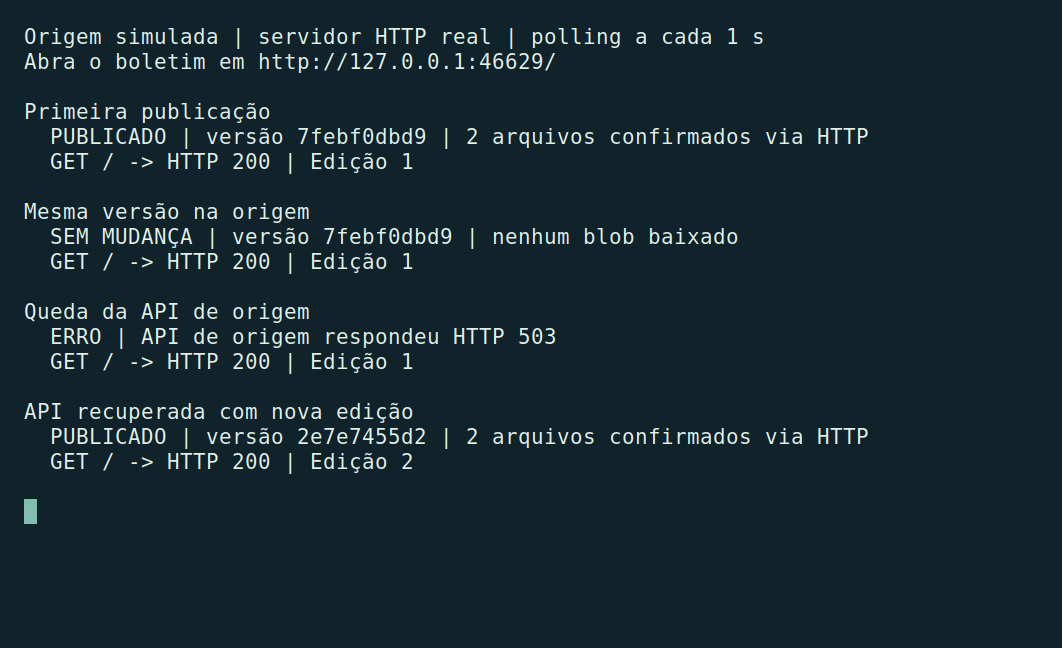
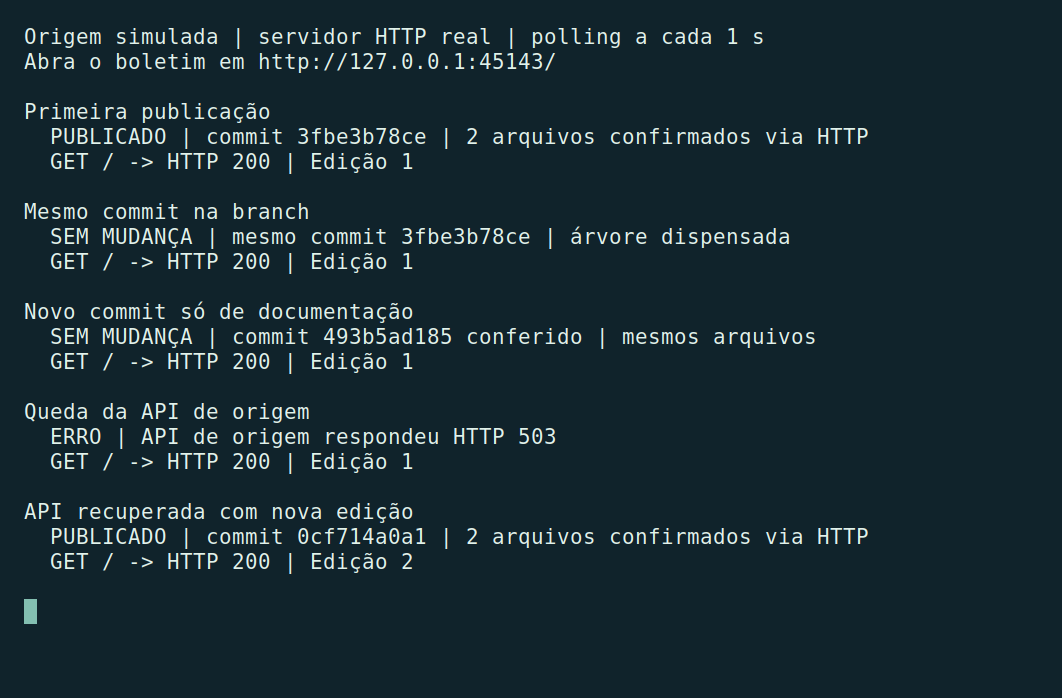
Consulta o commit da branch antes de carregar a árvore do site

diff --git a/demo.py b/demo.py
@@ -4,6 +4,7 @@ import argparse
 from contextlib import ExitStack, contextmanager
 from functools import partial
 from http.server import BaseHTTPRequestHandler, SimpleHTTPRequestHandler, ThreadingHTTPServer
+import hashlib
 import json
 from pathlib import Path
 import secrets
@@ -19,6 +20,8 @@ class Boletim:
     def __init__(self):
         self.token = secrets.token_urlsafe()
         self.indisponivel = False
+        self.arvores = {}
+        self.blobs = {}
         self.trocar_edicao(1)
 
     def trocar_edicao(self, numero):
@@ -31,6 +34,18 @@ class Boletim:
             "site/notas.md": b"Rascunho",
             "outra-pasta/index.html": b"Arquivo fora do site",
         }
+        self.comitar()
+
+    def comitar(self):
+        itens = []
+        for nome, dados in sorted(self.arquivos.items()):
+            sha = sha_blob(dados)
+            self.blobs[sha] = dados
+            itens.append(dict(path=nome, type="blob", mode="100644", sha=sha, size=len(dados)))
+        corpo = json.dumps({"tree": itens, "truncated": False}).encode()
+        self.arvore = hashlib.sha1(corpo).hexdigest()
+        self.arvores[self.arvore] = corpo
+        self.commit = hashlib.sha1(("commit " + self.arvore).encode()).hexdigest()
 
     def responder(self, req):
         if req.headers.get("Authorization") != f"Bearer {self.token}":
@@ -39,16 +54,19 @@ class Boletim:
         if self.indisponivel:
             req.send_error(503)
             return
-        base = "/repos/exemplo/boletim/git"
-        if req.path == base + "/trees/main?recursive=1":
-            itens = [dict(path=nome, type="blob", mode="100644", sha=sha_blob(dados),
-                          size=len(dados)) for nome, dados in self.arquivos.items()]
-            req.enviar(json.dumps({"tree": itens, "truncated": False}).encode(), "application/json")
+        base = "/repos/exemplo/boletim"
+        if req.path == base + "/branches/main":
+            revisao = {"commit": {"sha": self.commit, "commit": {"tree": {"sha": self.arvore}}}}
+            req.enviar(json.dumps(revisao).encode(), "application/json")
             return
-        for dados in self.arquivos.values():
-            if req.path == base + "/blobs/" + sha_blob(dados):
-                req.enviar(dados, "application/octet-stream")
-                return
+        arvore = req.path.removeprefix(base + "/git/trees/").removesuffix("?recursive=1")
+        if arvore in self.arvores:
+            req.enviar(self.arvores[arvore], "application/json")
+            return
+        sha = req.path.removeprefix(base + "/git/blobs/")
+        if sha in self.blobs:
+            req.enviar(self.blobs[sha], "application/octet-stream")
+            return
         req.send_error(404)
 
 
@@ -97,12 +115,16 @@ def demonstrar(intervalo, manter):
         agenda = ciclos(origem, base, site, intervalo)
         etapas = [
             ("Primeira publicação", "PUBLICADO", 1),
-            ("Mesma versão na origem", "SEM MUDANÇA", 1),
+            ("Mesmo commit na branch", "SEM MUDANÇA", 1),
+            ("Novo commit só de documentação", "SEM MUDANÇA", 1),
             ("Queda da API de origem", "ERRO", 1),
             ("API recuperada com nova edição", "PUBLICADO", 2),
         ]
         for titulo, estado, edicao in etapas:
             boletim.indisponivel = estado == "ERRO"
+            if titulo == "Novo commit só de documentação":
+                boletim.arquivos["README.md"] = b"Nova nota de uso"
+                boletim.comitar()
             if edicao == 2:
                 boletim.trocar_edicao(2)
             sucesso, mensagem = next(agenda)
@@ -123,7 +145,7 @@ def demonstrar(intervalo, manter):
 if __name__ == "__main__":
     parser = argparse.ArgumentParser(description=__doc__)
     parser.add_argument("--intervalo", type=int, default=2, metavar="SEGUNDOS")
-    parser.add_argument("--manter", action="store_true", help="mantém o site aberto após os quatro ciclos")
+    parser.add_argument("--manter", action="store_true", help="mantém o site aberto após os cinco ciclos")
     args = parser.parse_args()
     if args.intervalo < 1:
         parser.error("o intervalo deve ser positivo")

diff --git a/publicador.py b/publicador.py
@@ -12,7 +12,7 @@ import sys
 import time
 from urllib.parse import quote, urlsplit
 
-from origem import Falha, GitHub, baixar, sha_blob
+from origem import EXTENSOES, Falha, GitHub, baixar, sha_blob
 
 
 def ler_link(link):
@@ -53,20 +53,8 @@ def limpar_versoes(base):
             shutil.rmtree(pasta)
 
 
-def publicar(origem, base, url_site):
+def ativar(origem, arquivos, base, url_site, destino, anterior):
     atual, confirmado = base / "current", base / "confirmado"
-    anterior = ler_link(confirmado)
-    # Uma interrupção entre a troca e a confirmação é revertida no ciclo seguinte.
-    if ler_link(atual) != anterior:
-        apontar(atual, anterior)
-
-    arquivos = origem.listar()
-    manifesto = json.dumps([(a.caminho, a.sha) for a in arquivos]).encode()
-    versao = hashlib.sha256(manifesto).hexdigest()
-    destino = Path("versoes") / versao
-    if anterior == destino:
-        return f"SEM MUDANÇA | versão {versao[:10]} | nenhum blob baixado"
-
     if not (base / destino).exists():
         preparar(origem, arquivos, base / destino)
     apontar(atual, destino)
@@ -80,7 +68,39 @@ def publicar(origem, base, url_site):
     except (Falha, OSError):
         apontar(atual, anterior)
         raise
-    return f"PUBLICADO | versão {versao[:10]} | {len(arquivos)} arquivos confirmados via HTTP"
+
+
+def publicar(origem, base, url_site):
+    atual, confirmado = base / "current", base / "confirmado"
+    anterior = ler_link(confirmado)
+    # Uma interrupção entre a troca e a confirmação é revertida no ciclo seguinte.
+    if ler_link(atual) != anterior:
+        apontar(atual, anterior)
+
+    commit, arvore = origem.revisao()
+    registro = base / "ultimo-commit.json"
+    estado = {"origem": origem.base, "branch": origem.branch, "pasta": origem.pasta,
+              "extensoes": sorted(EXTENSOES), "commit": commit, "versao": str(anterior)}
+    if (anterior and (atual / "index.html").is_file() and registro.is_file()
+            and registro.read_bytes() == json.dumps(estado).encode()):
+        return f"SEM MUDANÇA | mesmo commit {commit[:10]} | árvore dispensada"
+
+    arquivos = origem.listar(arvore)
+    manifesto = json.dumps([(a.caminho, a.sha) for a in arquivos]).encode()
+    versao = hashlib.sha256(manifesto).hexdigest()
+    destino = Path("versoes") / versao
+    if anterior == destino and (atual / "index.html").is_file():
+        mensagem = f"SEM MUDANÇA | commit {commit[:10]} conferido | mesmos arquivos"
+    else:
+        ativar(origem, arquivos, base, url_site, destino, anterior)
+        mensagem = f"PUBLICADO | commit {commit[:10]} | {len(arquivos)} arquivos confirmados via HTTP"
+
+    # Uma falha anterior a este ponto deixa o mesmo commit elegível para nova tentativa.
+    estado["versao"] = str(destino)
+    temporario = registro.with_suffix(".novo")
+    temporario.write_text(json.dumps(estado), encoding="ascii")
+    os.replace(temporario, registro)
+    return mensagem
 
 
 def ciclo(origem, base, url_site):

diff --git a/tests/test_publicador.py b/tests/test_publicador.py
@@ -4,6 +4,7 @@ from functools import partial
 from pathlib import Path
 from tempfile import TemporaryDirectory
 import unittest
+from unittest.mock import patch
 from urllib.request import urlopen
 
 from demo import ApiLocal, Boletim, SiteLocal, servidor
@@ -39,6 +40,40 @@ class TestePublicacao(unittest.TestCase):
 
     def rodar(self, url=None):
         return ciclo(self.origem, self.base, url or self.site)
+
+    def test_commit_repetido_e_commit_so_de_documentacao(self):
+        with patch.object(self.origem, "listar", wraps=self.origem.listar) as listar, \
+             patch.object(self.origem, "conteudo", wraps=self.origem.conteudo) as baixar:
+            self.assertTrue(self.rodar()[0])
+            ativa = (self.base / "current").readlink()
+            self.assertIn("mesmo commit", self.rodar()[1])
+            self.assertEqual((listar.call_count, baixar.call_count), (1, 2))
+            self.boletim.arquivos["README.md"] = b"Documentacao"
+            self.boletim.comitar()
+            self.assertIn("mesmos arquivos", self.rodar()[1])
+            self.assertIn("mesmo commit", self.rodar()[1])
+            self.assertEqual((listar.call_count, baixar.call_count), (2, 2))
+            self.assertEqual((self.base / "current").readlink(), ativa)
+
+    def test_migracao_e_mudanca_de_pasta_no_mesmo_commit(self):
+        self.assertTrue(self.rodar()[0])
+        (self.base / "ultimo-commit.json").unlink()  # estado de uma instalação anterior
+        self.assertIn("mesmos arquivos", self.rodar()[1])
+        self.origem.pasta = "outra-pasta"
+        self.assertIn("PUBLICADO", self.rodar()[1])
+        self.assertEqual((self.base / "current/index.html").read_bytes(), b"Arquivo fora do site")
+
+    def test_branch_avanca_durante_o_download(self):
+        listar = self.origem.listar
+        def avancar_branch(arvore):
+            self.boletim.trocar_edicao(2)
+            return listar(arvore)
+        with patch.object(self.origem, "listar", side_effect=avancar_branch):
+            self.assertTrue(self.rodar()[0])
+        pagina = self.base / "current/index.html"
+        self.assertIn("Edição 1", pagina.read_text())
+        self.assertIn("PUBLICADO", self.rodar()[1])
+        self.assertIn("Edição 2", pagina.read_text())
 
     def test_reverte_quando_o_servidor_entrega_bytes_incorretos(self):
         self.assertTrue(self.rodar()[0])

diff --git a/origem.py b/origem.py
@@ -85,13 +85,25 @@ class GitHub:
             raise Falha("configure GITHUB_REPO no formato conta/repositorio")
         if not branch or (pasta != "." and not caminho_publico(pasta)):
             raise Falha("confira GITHUB_BRANCH e SOURCE_DIR")
-        self.base = f"{api}/repos/{repo}/git"
+        self.base = f"{api}/repos/{repo}"
         self.branch = quote(branch, safe="")
         self.pasta = pasta
         self.token = token
 
-    def listar(self):
-        dados = baixar(f"{self.base}/trees/{self.branch}?recursive=1", 8 * MIB,
+    def revisao(self):
+        dados = baixar(f"{self.base}/branches/{self.branch}", MIB, "API de origem",
+                       accept="application/vnd.github+json", token=self.token)
+        try:
+            commit = json.loads(dados)["commit"]
+            sha, arvore = commit["sha"], commit["commit"]["tree"]["sha"]
+            if not all(re.fullmatch("[0-9a-f]{40}", valor) for valor in (sha, arvore)):
+                raise ValueError("SHA inválido")
+            return sha, arvore
+        except (KeyError, TypeError, ValueError) as erro:
+            raise Falha("resposta de branch inválida na origem") from erro
+
+    def listar(self, arvore):
+        dados = baixar(f"{self.base}/git/trees/{arvore}?recursive=1", 8 * MIB,
                        "API de origem", accept="application/vnd.github+json", token=self.token)
         try:
             return selecionar(json.loads(dados), self.pasta)
@@ -99,7 +111,7 @@ class GitHub:
             raise Falha("JSON de árvore inválido na origem") from erro
 
     def conteudo(self, arquivo):
-        dados = baixar(f"{self.base}/blobs/{arquivo.sha}", arquivo.tamanho, "API de origem",
+        dados = baixar(f"{self.base}/git/blobs/{arquivo.sha}", arquivo.tamanho, "API de origem",
                        accept="application/vnd.github.raw+json", token=self.token)
         if len(dados) != arquivo.tamanho or sha_blob(dados) != arquivo.sha:
             raise Falha("conteúdo recebido diverge do blob anunciado")

diff --git a/README.md b/README.md
@@ -6,26 +6,28 @@ Uma VPS acompanha uma pasta de um repositório no GitHub, publica os arquivos qu
 
 Quem hospeda um site de terceiros pode ter autorização para ler e republicar os arquivos, enquanto a administração do repositório fica com outra equipe. Nesse cenário, configurar GitHub Actions ou webhooks na origem depende de quem a mantém. Conferir a branch e copiar os arquivos manualmente pode deixar uma atualização passar. Durante a cópia, um visitante também pode receber arquivos de duas edições diferentes.
 
-O operador escolhe a pasta publicável, e a VPS inicia todas as consultas. Uma edição repetida custa uma consulta à árvore e zero downloads de arquivos. O repositório inclui um boletim em HTML e CSS para experimentar o fluxo completo.
+O operador escolhe a pasta publicável, e a VPS inicia todas as consultas. Quando a branch permanece no mesmo commit já processado, uma consulta ao GitHub encerra o ciclo. A árvore e os arquivos só são examinados se necessário. O repositório inclui um boletim em HTML e CSS para experimentar o fluxo completo.
 
 ## Como funciona
 
 ```mermaid
 flowchart TD
-    A["Polling na VPS"] --> B["GitHub REST · árvore da branch em JSON"]
-    B --> C["Python seleciona caminhos e hashes dos arquivos estáticos"]
-    C --> D{"O conjunto publicado mudou?"}
-    D -->|Não| A
-    D -->|Sim| E["Baixa os blobs por hash e prepara a versão em disco"]
-    E --> F["Troca o link current de forma atômica"]
-    F --> G["Lê cada arquivo pelo servidor web e confere os bytes"]
-    G -->|Confere| H["Registra a versão confirmada"]
-    G -->|Falha| I["Restaura a última versão confirmada"]
-    H --> A
-    I --> A
+    A["Consultar o SHA do commit da branch"] --> B{"Commit já processado para a edição ativa?"}
+    B -->|Sim| W["Aguardar o próximo ciclo"]
+    B -->|Não| C["Ler a árvore desse commit e filtrar caminhos e hashes"]
+    C --> D{"Arquivos do site mudaram?"}
+    D -->|Não| H["Registrar o commit processado"]
+    D -->|Sim| E["Preparar a edição e trocar current"]
+    E --> F{"GET pelo servidor web confirma os bytes?"}
+    F -->|Sim| G["Confirmar a edição"] --> H
+    F -->|Não| I["Restaurar a edição anterior e registrar o erro"] --> W
+    H --> W
+    W --> A
 ```
 
-A árvore da branch chega em JSON. O Python filtra por pasta, tipo de objeto, extensão e caminho. Para cada arquivo selecionado, guarda o caminho relativo, o tamanho e o identificador Git do conteúdo (*blob*). A lista ordenada de caminhos e hashes define a versão do site. Uma alteração apenas no README da origem, por exemplo, preserva a edição publicada.
+A API da branch fornece o SHA do commit e o identificador da árvore correspondente na mesma resposta. O publicador compara o commit com o último processado para aquela origem, branch, pasta e edição ativa. Se for o mesmo, a próxima consulta fica para depois do intervalo de polling.
+
+Ao encontrar um commit novo, o Python pede a árvore pelo identificador recebido e filtra os arquivos da pasta publicável. A lista ordenada de caminhos e hashes define a edição do site. Se só o README mudou, o programa registra o novo commit e mantém a edição anterior, sem baixar os arquivos. Um deploy que falha fica pendente para nova tentativa.
 
 Os downloads usam os hashes da árvore consultada. Assim, mesmo que a branch avance durante a cópia, os arquivos pertencem à mesma fotografia da origem. O publicador monta a pasta inteira antes de trocar `current`, a raiz do servidor web. Depois da troca, faz um GET de cada arquivo e compara seu conteúdo com o hash de origem. Se a leitura falhar, restaura o apontamento anterior. Na primeira publicação, a confirmação bem-sucedida estabelece a primeira versão recuperável.
 
@@ -34,7 +36,7 @@ Os downloads usam os hashes da árvore consultada. Assim, mesmo que a branch ava
 | Componente | Papel |
 | --- | --- |
 | Python 3.10+ em Linux | `urllib` faz as requisições, `json` interpreta a árvore, `hashlib` verifica os conteúdos e `fcntl` impede ciclos simultâneos. |
-| API REST do GitHub por HTTPS | Consulta a árvore de uma branch e baixa os blobs por identificador. Um token Bearer pode conceder leitura de conteúdo. [Git Trees](https://docs.github.com/en/rest/git/trees#get-a-tree) · [Git Blobs](https://docs.github.com/en/rest/git/blobs#get-a-blob) |
+| API REST do GitHub por HTTPS | Lê o commit da branch, a árvore imutável e os blobs necessários. Um token Bearer pode conceder leitura de conteúdo. [Branches](https://docs.github.com/en/rest/branches/branches#get-a-branch) · [Git Trees](https://docs.github.com/en/rest/git/trees#get-a-tree) · [Git Blobs](https://docs.github.com/en/rest/git/blobs#get-a-blob) |
 | Servidor HTTP da VPS | Serve a pasta ativa e responde à verificação independente do publicador. O exemplo de operação usa o Caddy. [Caddy file_server](https://caddyserver.com/docs/caddyfile/directives/file_server) |
 | systemd | Mantém o processo de polling ativo na VPS e direciona a saída para o journal. |
 
@@ -53,7 +55,7 @@ cd publicador-estatico
 python3 demo.py --manter
 ```
 
-Abra no navegador o endereço de loopback que o programa imprimir. Ele escolhe portas livres, cria uma área temporária e executa quatro ciclos com o mesmo publicador usado na VPS. A origem é uma simulação local da API com um token gerado em memória. O servidor de arquivos atende requisições HTTP reais. Pressione Enter no final para liberar as portas.
+Abra no navegador o endereço de loopback que o programa imprimir. Ele escolhe portas livres, cria uma área temporária e executa cinco ciclos com o mesmo publicador usado na VPS. A origem é uma simulação local da API com um token gerado em memória. O servidor de arquivos atende requisições HTTP reais. Pressione Enter no final para liberar as portas.
 
 **Executar com a API real do GitHub**
 
@@ -100,16 +102,16 @@ Para instalação persistente, siga o procedimento com usuário de serviço, rai
 
 ## Exemplos de execução
 
-**Com a API real do GitHub.** A partir de um clone novo, o publicador consultou a branch pública e ativou o boletim. Um cliente HTTP leu o HTML e o CSS do servidor local e comparou os bytes com os arquivos do clone. O segundo ciclo reconheceu a mesma versão.
+**Com a API real do GitHub.** A partir de um clone novo, o publicador consultou a branch pública e ativou o boletim. Um cliente HTTP leu o HTML e o CSS do servidor local e comparou os bytes com os arquivos do clone. O segundo ciclo reconheceu o SHA já processado e dispensou a consulta à árvore.
 
 ![Teste com api.github.com: dois arquivos confirmados, ciclo repetido sem downloads e duas respostas HTTP 200 com conteúdo idêntico ao clone.](docs/github-real.png)
 
 **Falha e recuperação reproduzíveis.**
-Captura de uma execução de `python3 demo.py --intervalo 1`. Na terceira consulta, a origem devolveu HTTP 503. Logo abaixo, o GET feito como visitante retornou HTTP 200 com a edição 1. A última consulta publicou a edição 2 e verificou os dois arquivos pelo servidor.
+Captura de uma execução de `python3 demo.py --intervalo 1`. O segundo ciclo dispensou a árvore. No terceiro, um commit só de documentação manteve a edição 1. Na quarta consulta, a origem devolveu HTTP 503. Logo abaixo, o GET feito como visitante retornou HTTP 200 com a edição 1. A última consulta publicou a edição 2 e verificou os dois arquivos pelo servidor.
 
-![Terminal com quatro ciclos: primeira edição publicada, versão repetida, falha HTTP 503 com a página ainda acessível e publicação da edição 2.](docs/demonstracao.png)
+![Cinco ciclos com publicação, SHA repetido, alteração documental, falha HTTP 503 e recuperação com a edição 2.](docs/demonstracao.png)
 
-O comando abaixo testa filtragem, autenticação, bloqueio de concorrência, recuperação após interrupção e reversão de uma versão servida incorretamente.
+Os testes cobrem SHA repetido, commit documental, migração de estado, mudança de pasta, avanço da branch durante o download, autenticação, filtragem, concorrência e recuperação de falhas.
 
 ```bash
 python3 -m unittest discover -s tests -v
@@ -117,6 +119,6 @@ python3 -m unittest discover -s tests -v
 
 ## Melhorias futuras
 
-- Usar requisições condicionais com ETag para reduzir a transferência da árvore nos ciclos sem alterações.
+- Usar consultas condicionais com ETag para reduzir também a transferência de metadados da branch.
 - Respeitar o tempo de espera indicado pela API quando a cota de consultas se esgotar.
 - Validar referências locais de HTML e CSS antes da troca, para identificar recursos que o autor esqueceu de incluir.

diff --git a/operacao/README.md b/operacao/README.md
@@ -35,6 +35,8 @@ O exemplo usa systemd, Python 3.10+ e Caddy já instalados. Execute os comandos 
    curl --fail http://127.0.0.1:8080/
    ```
 
+Em instalações anteriores à checagem por commit, o primeiro ciclo compara a árvore com a edição confirmada e cria `ultimo-commit.json` no diretório de estado. Os próximos ciclos usam esse registro. Uma mudança na origem, na branch ou na pasta exige nova comparação.
+
 Ao mudar o arquivo de ambiente, reinicie a unidade. Para interromper as consultas, use `sudo systemctl stop publicador-estatico.service`. O servidor continua servindo a versão confirmada.
 
 Um erro HTTP 401 ou 403 pede revisão da credencial, das permissões e da cota da API. Um 404 da origem pode indicar branch ou repositório incorreto (confira também o acesso a um repositório privado). Se a mensagem citar o servidor web, verifique `SITE_URL`, a raiz `current` e a permissão de leitura do servidor. O próximo ciclo repete a tentativa. Cada requisição tem timeout de 10 segundos.
